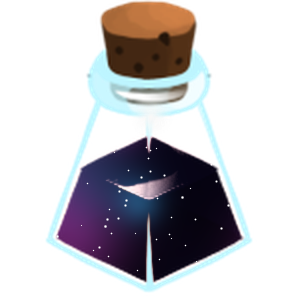
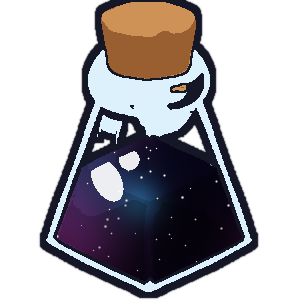
Potion and dye bottles restyled to match the pets: flat cel shading, thick tinted outline, simple shine
Claude-Session: https://claude.ai/code/session_016T1x9t3fXLSJ9Wj3N5qPHM

Changed region(s): [[0.12, 0.0, 0.87, 1.0]]

diff --git a/scripts/make_bottles.py b/scripts/make_bottles.py
@@ -121,9 +121,9 @@ def fill(skin, shade, mask, h, w):
     if skin == 'harvest':
         return ramp(s * 0.7 + (1 - t) * 0.3, [(0, '#5a200a'), (0.4, '#c24e14'), (0.75, '#f69832'), (1, '#ffd88a')])
     if skin == 'potion_small':
-        return ramp(s ** 1.6, [(0, '#145a0c'), (0.5, '#3fb422'), (0.85, '#8fe84a'), (1, '#d8ffa0')])
+        return ramp(s ** 1.6, [(0, '#2a8a18'), (0.5, '#4fc22a'), (1, '#9cec5a')])
     if skin == 'potion_full':
-        return ramp(s ** 1.6, [(0, '#4a0610'), (0.5, '#c81e32'), (0.85, '#ff5a5a'), (1, '#ffb0b0')])
+        return ramp(s ** 1.6, [(0, '#8a0e1c'), (0.5, '#e0283a'), (1, '#ff6a6a')])
     raise ValueError(skin)
 
 # Bottle shape for each rarity (pack numbering).
@@ -133,20 +133,79 @@ DYES = {'pastel': 'common', 'mono': 'common', 'retro': 'common', 'slime': 'uncom
         'harvest': 'event'}
 POTIONS = {'potion_small': 5, 'potion_full': 4}
 
+def _blur(m, r):
+    return np.asarray(Image.fromarray(np.clip(m * 255, 0, 255).astype(np.uint8)).filter(ImageFilter.GaussianBlur(r)), dtype=np.float32) / 255
+def _grow(m, px):
+    return np.asarray(Image.fromarray((m > 0.5).astype(np.uint8) * 255).filter(ImageFilter.MaxFilter(px * 2 + 1)), dtype=np.float32) / 255
+
+def chibi(a, liquid, col, kind=''):
+    """Restyles a pack bottle to match the pets: flat cel-shaded colors, simple shine and a thick dark outline."""
+    h, w = liquid.shape
+    al = a[..., 3] / 255
+    sil = (al > 0.45).astype(np.float32)
+    rgb = a[..., :3]
+    lum = (0.299 * rgb[..., 0] + 0.587 * rgb[..., 1] + 0.114 * rgb[..., 2]) / 255
+    r, g, b = rgb[..., 0], rgb[..., 1], rgb[..., 2]
+    cork = ((r > g + 12) & (g > b + 6) & (liquid < 0.3) & (sil > 0)).astype(np.float32)
+    cork = (_blur(cork, 1.2) > 0.5).astype(np.float32)
+    from scipy import ndimage
+    lm = _blur(liquid, 1.0) > 0.5
+    lm = ndimage.binary_closing(lm, iterations=6)
+    lm = ndimage.binary_fill_holes(lm)
+    liq = lm.astype(np.float32) * sil * (1 - cork)
+    glass = sil * (1 - liq) * (1 - cork)
+    # Liquid: smooth away the fine detail, then 3 flat tones that keep each pixel's own hue.
+    speckled = kind in ('galaxy', 'ancient', 'moonlit', 'sakura', 'slime', 'ocean')
+    c = np.clip(col, 0, 255).astype(np.float32) if speckled else np.asarray(Image.fromarray(np.clip(col, 0, 255).astype(np.uint8)).filter(ImageFilter.MedianFilter(5)), dtype=np.float32)
+    cl = np.maximum(c.mean(-1, keepdims=True), 1)
+    sm = _blur(lum, 2.0)
+    lv = np.where(sm < 0.33, 0.72, np.where(sm < 0.62, 0.9, 1.08))[..., None]
+    liq_rgb = np.clip(c * lv, 0, 255)
+    # Glass: a pale blue with a slightly darker inner edge.
+    glass_rgb = np.broadcast_to(hexc('#dcf1fb'), (h, w, 3))
+    cork_rgb = np.where((_blur(lum, 2) < 0.42)[..., None], hexc('#9a5f30'), hexc('#cf9256'))
+    out = glass_rgb * glass[..., None] + liq_rgb * liq[..., None] + cork_rgb * cork[..., None]
+    # Shine: one clean rounded highlight on the upper left of the bottle's body, plus a small dot,
+    # like the soft shine on the pets.
+    yy, xx = np.mgrid[0:h, 0:w].astype(np.float32)
+    ys, xs = np.nonzero(liq > 0.5) if liq.sum() > 50 else np.nonzero(sil > 0.5)
+    y0, y1, x0, x1 = ys.min(), ys.max(), xs.min(), xs.max()
+    cy, cx = y0 + (y1 - y0) * 0.3, x0 + (x1 - x0) * 0.27
+    ry, rx = (y1 - y0) * 0.16, (x1 - x0) * 0.075
+    th = -0.5
+    u = ((xx - cx) * np.cos(th) + (yy - cy) * np.sin(th)) / max(rx, 1)
+    v = (-(xx - cx) * np.sin(th) + (yy - cy) * np.cos(th)) / max(ry, 1)
+    interior = (_blur(sil, 4) > 0.97).astype(np.float32)
+    shine = ((u * u + v * v) < 1).astype(np.float32)
+    dot = (((xx - (cx + rx * 1.6)) ** 2 + (yy - (cy - ry * 0.9)) ** 2) < (rx * 0.75) ** 2).astype(np.float32)
+    shine = np.maximum(shine, dot) * interior * (1 - cork)
+    out = out * (1 - shine[..., None] * 0.92) + 255 * shine[..., None] * 0.92
+    # Outline color: the liquid's own color, darkened (like the pets' tinted lines).
+    if liq.sum() > 0:
+        mean = (liq_rgb * liq[..., None]).sum((0, 1)) / liq.sum()
+    else:
+        mean = hexc('#5a6a7a')
+    ink = mean * 0.22 + hexc('#141826') * 0.78
+    inner = np.zeros((h, w), dtype=np.float32)
+    for m in (liq, cork):
+        inner = np.maximum(inner, _grow(m, 2) * (1 - m) * sil)
+    out = out * (1 - inner[..., None]) + ink * inner[..., None]
+    outer = _grow(sil, 6)
+    ring = outer * (1 - sil)
+    final = out * sil[..., None] + ink * ring[..., None]
+    alpha = np.clip(_blur(outer, 0.7) * 1.15, 0, 1)
+    return Image.fromarray(np.dstack([final, alpha * 255]).astype(np.uint8), 'RGBA')
+
 def make(kind, shape):
     a, mask, shade = liquid_of(shape)
     h, w = mask.shape
     col = fill(kind, shade, mask, h, w)
-    m = Image.fromarray((mask * 255).astype(np.uint8)).filter(ImageFilter.GaussianBlur(0.6))
-    m = np.asarray(m, dtype=np.float32)[..., None] / 255
-    rgb = a[..., :3] * (1 - m) + np.clip(col, 0, 255) * m
-    return Image.fromarray(np.dstack([rgb, a[..., 3]]).astype(np.uint8), 'RGBA')
+    return chibi(a, mask, col, kind)
 
 os.makedirs(f'{out}/dyes', exist_ok=True); os.makedirs(f'{out}/potions', exist_ok=True)
 for d, r in DYES.items():
     make(d, SHAPE[r]).save(f'{out}/dyes/{d}.png', optimize=True)
 # Potions use the pack's own green and red bottles as they are.
-for name, file in (('small', 'pot5green'), ('full', 'pot4red')):
-    im = Image.open(f'{src}/{file}.png').convert('RGBA')
-    im.resize((im.width * SCALE, im.height * SCALE), Image.LANCZOS).save(f'{out}/potions/{name}.png', optimize=True)
+for name, shape, kind in (('small', 5, 'potion_small'), ('full', 4, 'potion_full')):
+    make(kind, shape).save(f'{out}/potions/{name}.png', optimize=True)
 print('made', len(DYES), 'dyes and', len(POTIONS), 'potions')
